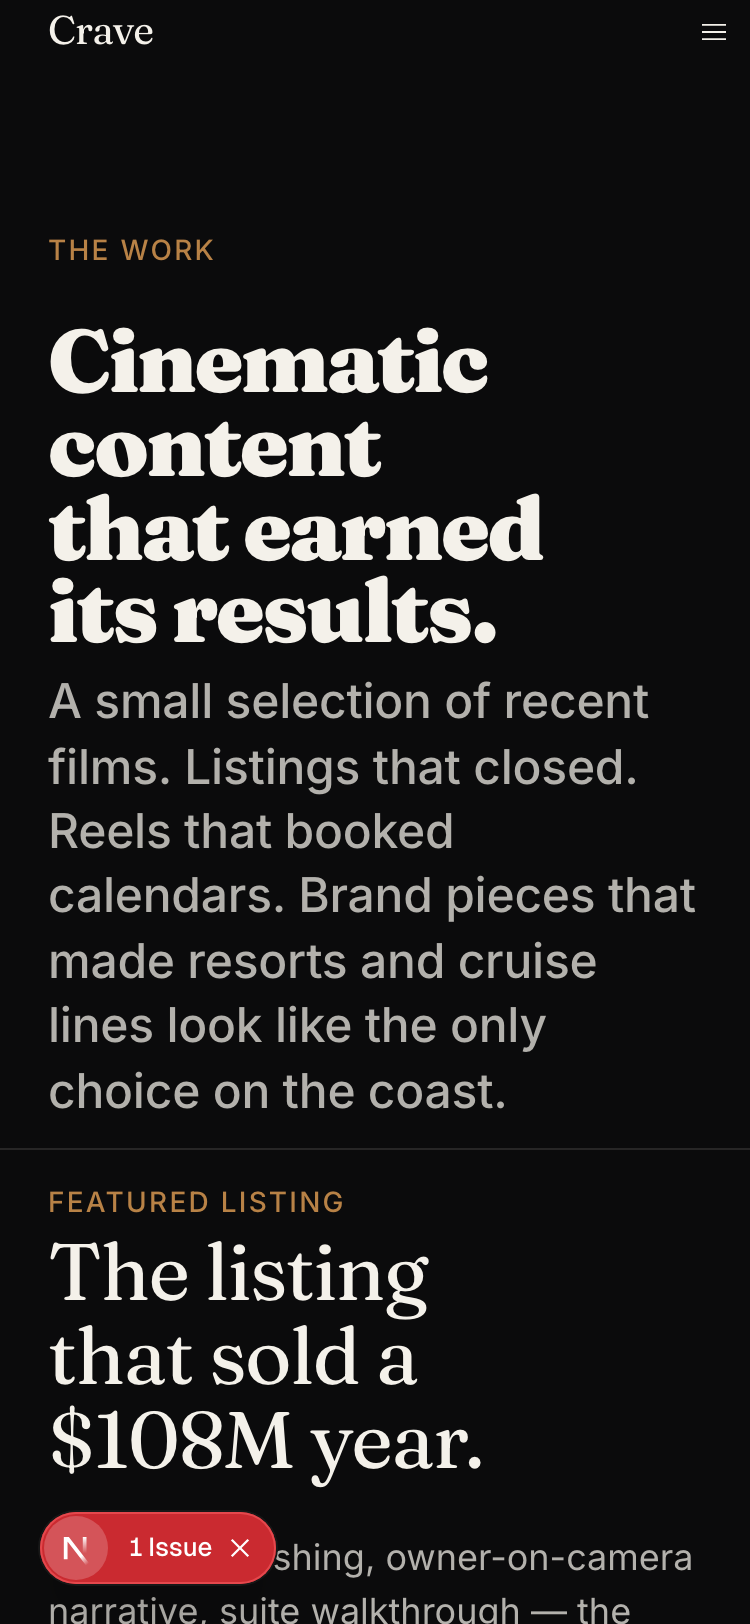
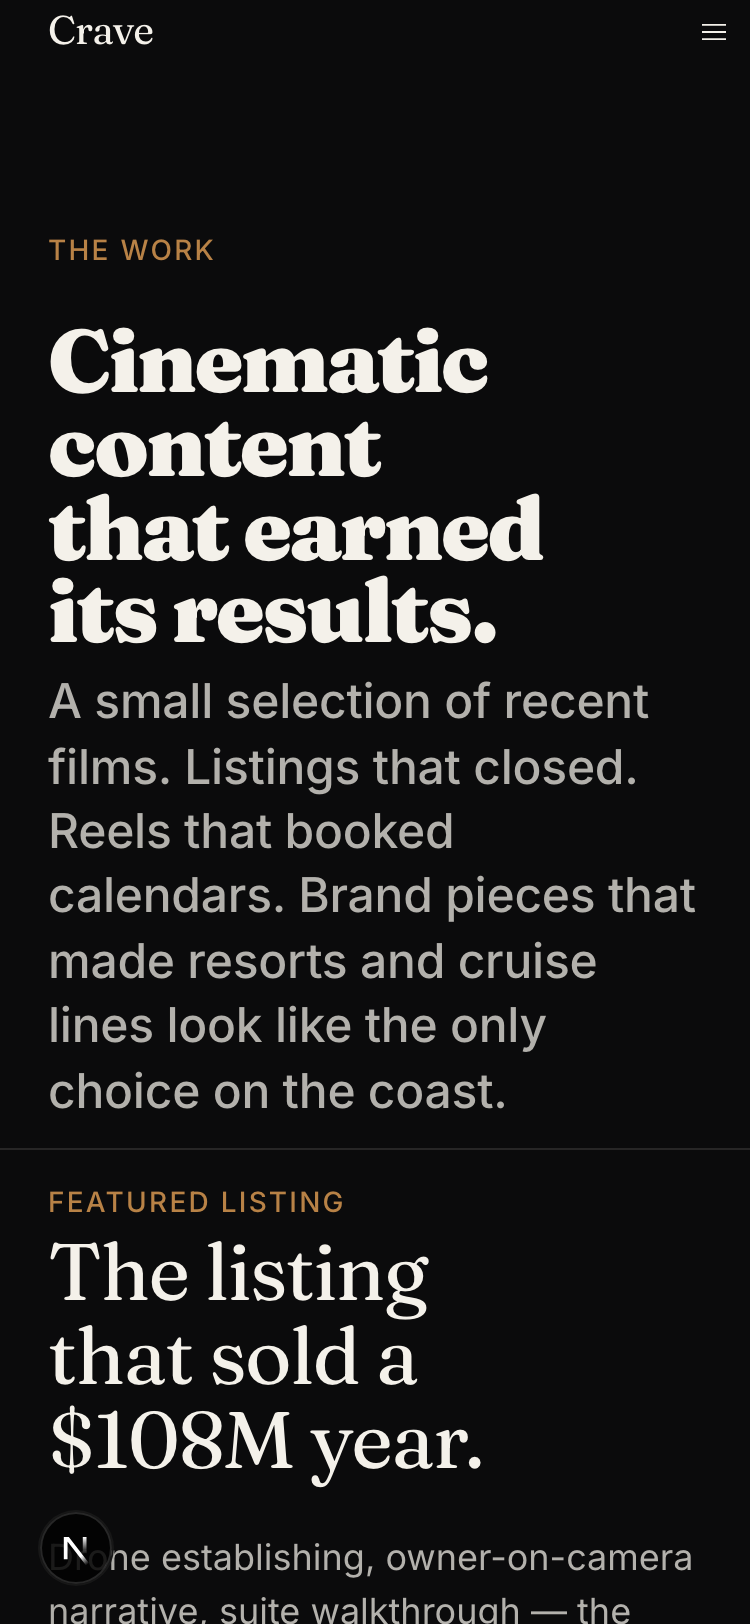
Fix founder portrait (wrong person) and tune typography hierarchy
Replaced founder-portrait.jpg with Dante's actual photo from @user_
Instagram. Reduced testimonial quote font size one level for better hierarchy.
Bumped Dante's founder note quote to text-xl to distinguish founder voice
from client testimonials. Added CHANGELOG.md documenting scrape technique
and typography decisions for future skill building.

Changed region(s): [[0.0613, 0.9236, 0.368, 0.9852]]

diff --git a/src/app/page.tsx b/src/app/page.tsx
@@ -250,7 +250,7 @@ export default function Home() {
           </div>
           <div data-anim="founder-text" className="lg:col-span-6 lg:col-start-7 flex flex-col gap-8">
             <Eyebrow>A note from Dante</Eyebrow>
-            <H3 className="leading-[1.2]">
+            <H3 className="text-xl leading-[1.2]">
               We believe video content should be more than entertaining. It should move the needle. For us, that means working closely with you to understand your unique business and creating cinematic content designed to hit your specific objectives — sales, awareness, loyalty. We&rsquo;re not making content for content&rsquo;s sake. We&rsquo;re making the film that closes the deal.
             </H3>
             <Caption>— Dante, Founder &amp; Creative Director</Caption>

diff --git a/CHANGELOG.md b/CHANGELOG.md
@@ -1,0 +1,25 @@
+# Changelog
+
+All notable changes to the Crave Collective website project.
+
+## 2026-05-12
+
+### Founder portrait fix
+- **Problem:** Previous scrape session pulled `@cravecollectivee` business account profile pic for founder portrait — resulted in wrong person (woman in black blouse, not Dante).
+- **Fix:** Pulled from Dante's personal account `@dantefilms_` via Bright Data Instagram Profiles MCP. Found cinematic boxing gym portrait (1080x1920) from his "dropout to business owner" post. Replaced `public/posters/founder-portrait.jpg`.
+- **Technique:** `mcp__bright-data__web_data_instagram_profiles` → parsed `posts[].image_url` array → visually identified correct portrait by cross-referencing profile pic (curly hair, gold chain) → downloaded 1080p post image.
+- **Lesson:** Instagram business accounts often use team/brand photos as profile pics. For founder portraits, always check the personal account (`dantefilms_` not `cravecollectivee`). Verify identity visually before replacing.
+
+### Typography tuning
+- Testimonial quote font size reduced one level: `text-m lg:text-l` → `text-s lg:text-m` in `src/components/compounds/Testimonial.tsx`.
+- Dante's founder quote ("A note from Dante" section) bumped to `text-xl` in `src/app/page.tsx` — creates visual hierarchy between founder voice and client testimonials.
+- **Pattern:** Use inline className override on shared primitive (`<H3 className="text-xl ...">`) rather than modifying the primitive itself when only one instance needs a different size.
+
+### Files changed
+- `public/posters/founder-portrait.jpg` — replaced with correct Dante portrait from `@dantefilms_`
+- `public/posters/dante-profile-320.jpg` — Dante's IG profile pic (320x320 backup)
+- `public/posters/dante-post-0.jpg`, `dante-post-1.jpg`, `dante-post-2.jpg` — candidate images from post scrape
+- `public/posters/founder-portrait-WRONG.jpg` — archived wrong image for reference
+- `src/components/compounds/Testimonial.tsx` — quote font size reduced
+- `src/app/page.tsx` — founder quote font size bumped to xl
+- `screenshots/*.png` — updated captures reflecting changes